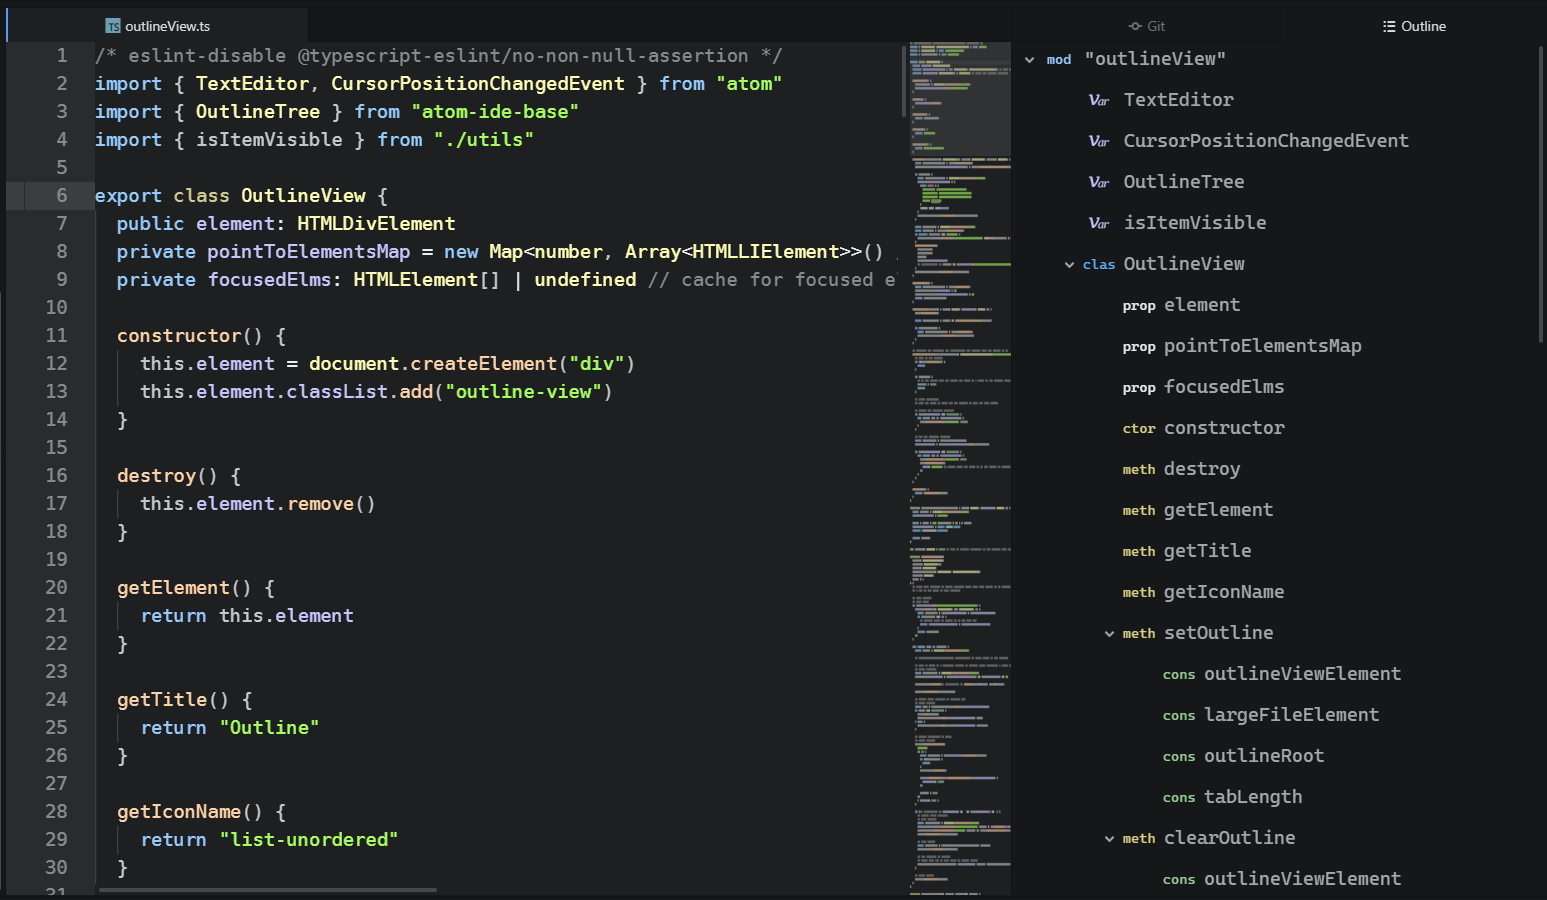
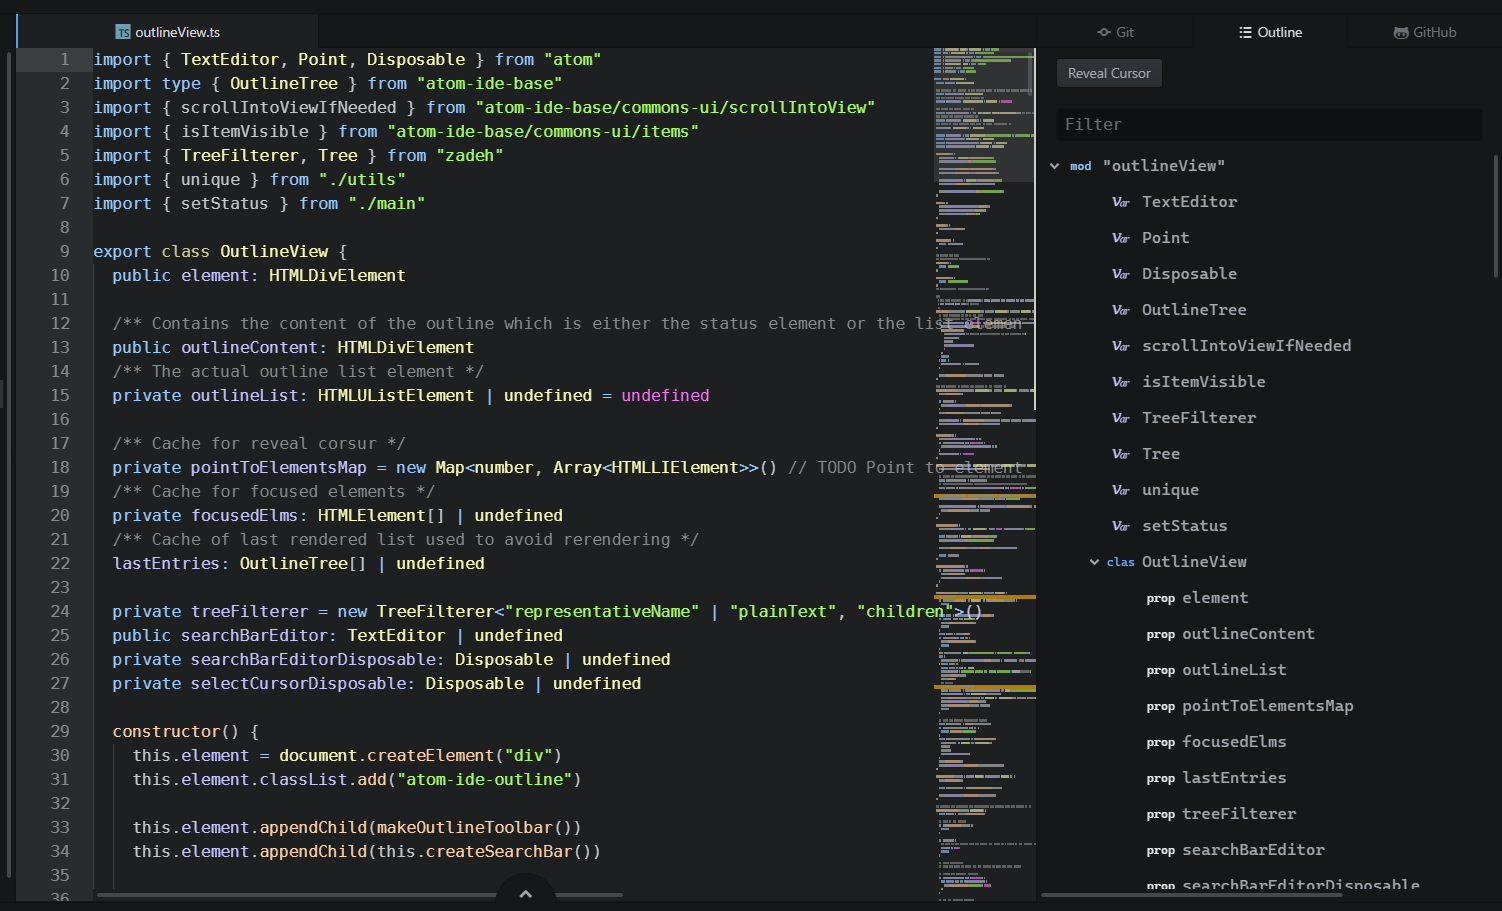
chore: add changelog and screenshots

diff --git a/CHANGELOG.md b/CHANGELOG.md
@@ -1,3 +1,12 @@
+## [3.0.0](https://github.com/atom-ide-community/atom-ide-outline/compare/v2.3.4...v3.0.0) (2021-6-26)
+
+The outline now includes a search-bar to search through the symbols. :tada:
+
+This is powered by [Zadeh](https://github.com/atom-community/zadeh), the native library written in C++ for this purpose.
+
+![filterer](./filter.png)
+
+
 ## [2.3.4](https://github.com/atom-ide-community/atom-ide-outline/compare/v2.3.3...v2.3.4) (2021-04-17)
 
 

diff --git a/README.md b/README.md
@@ -3,6 +3,7 @@
 Outline UI compatible with IDE packages. Presents symbols of an active text editor in a tree view, with "jump to symbol" navigation (on click).
 
 ![An open outline panel](./preview.png)
+![filterer](./filter.png)
 
 ## Getting started
 
